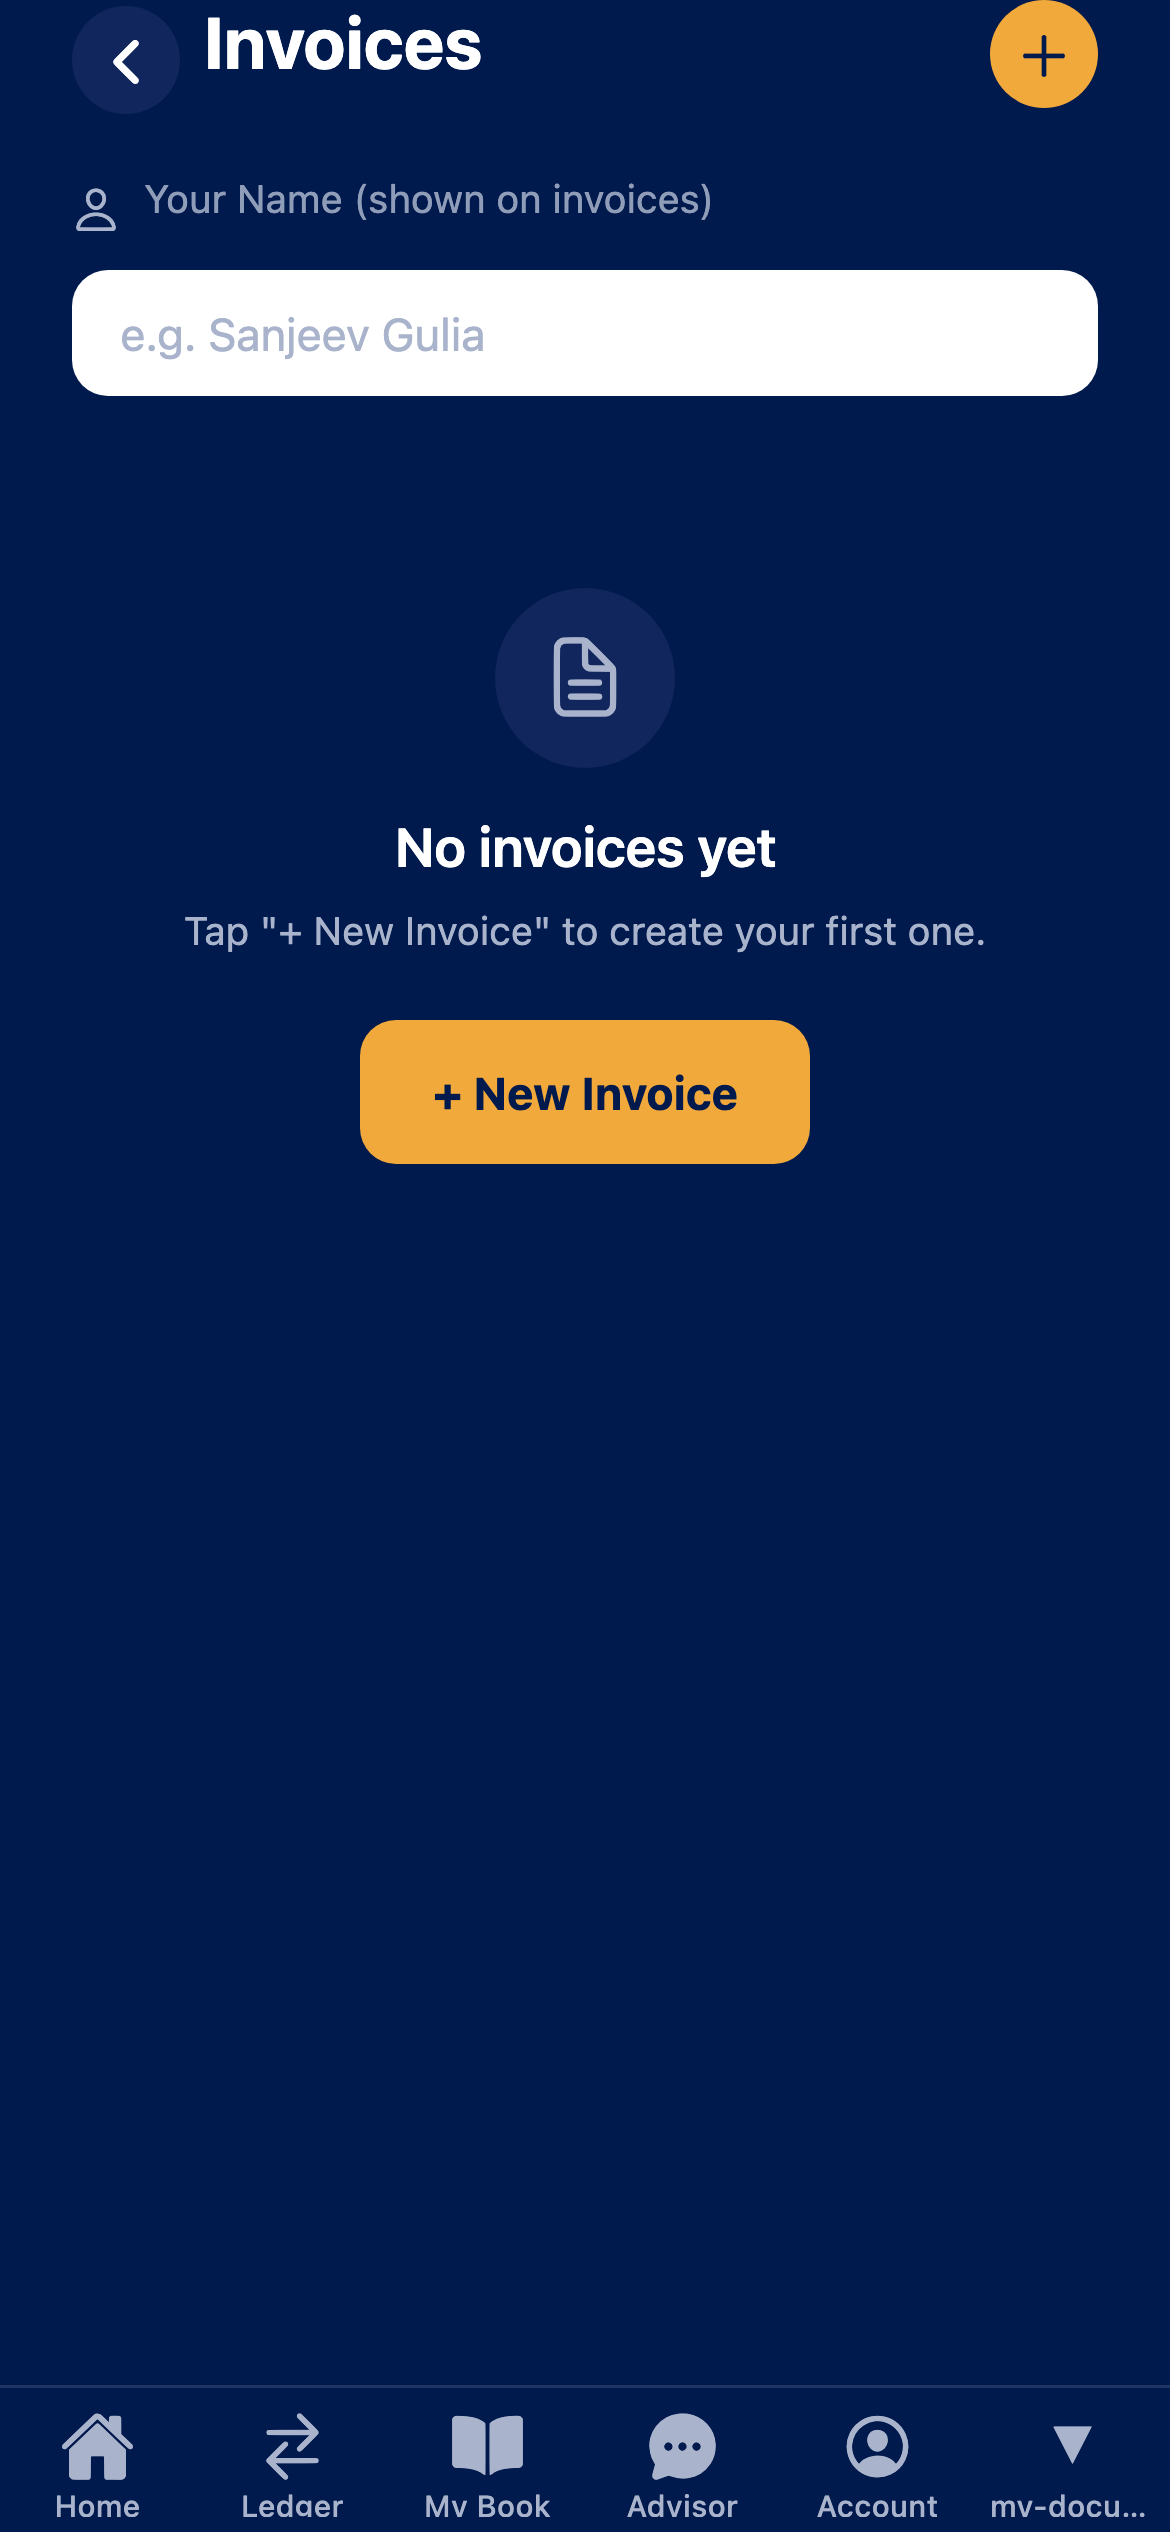
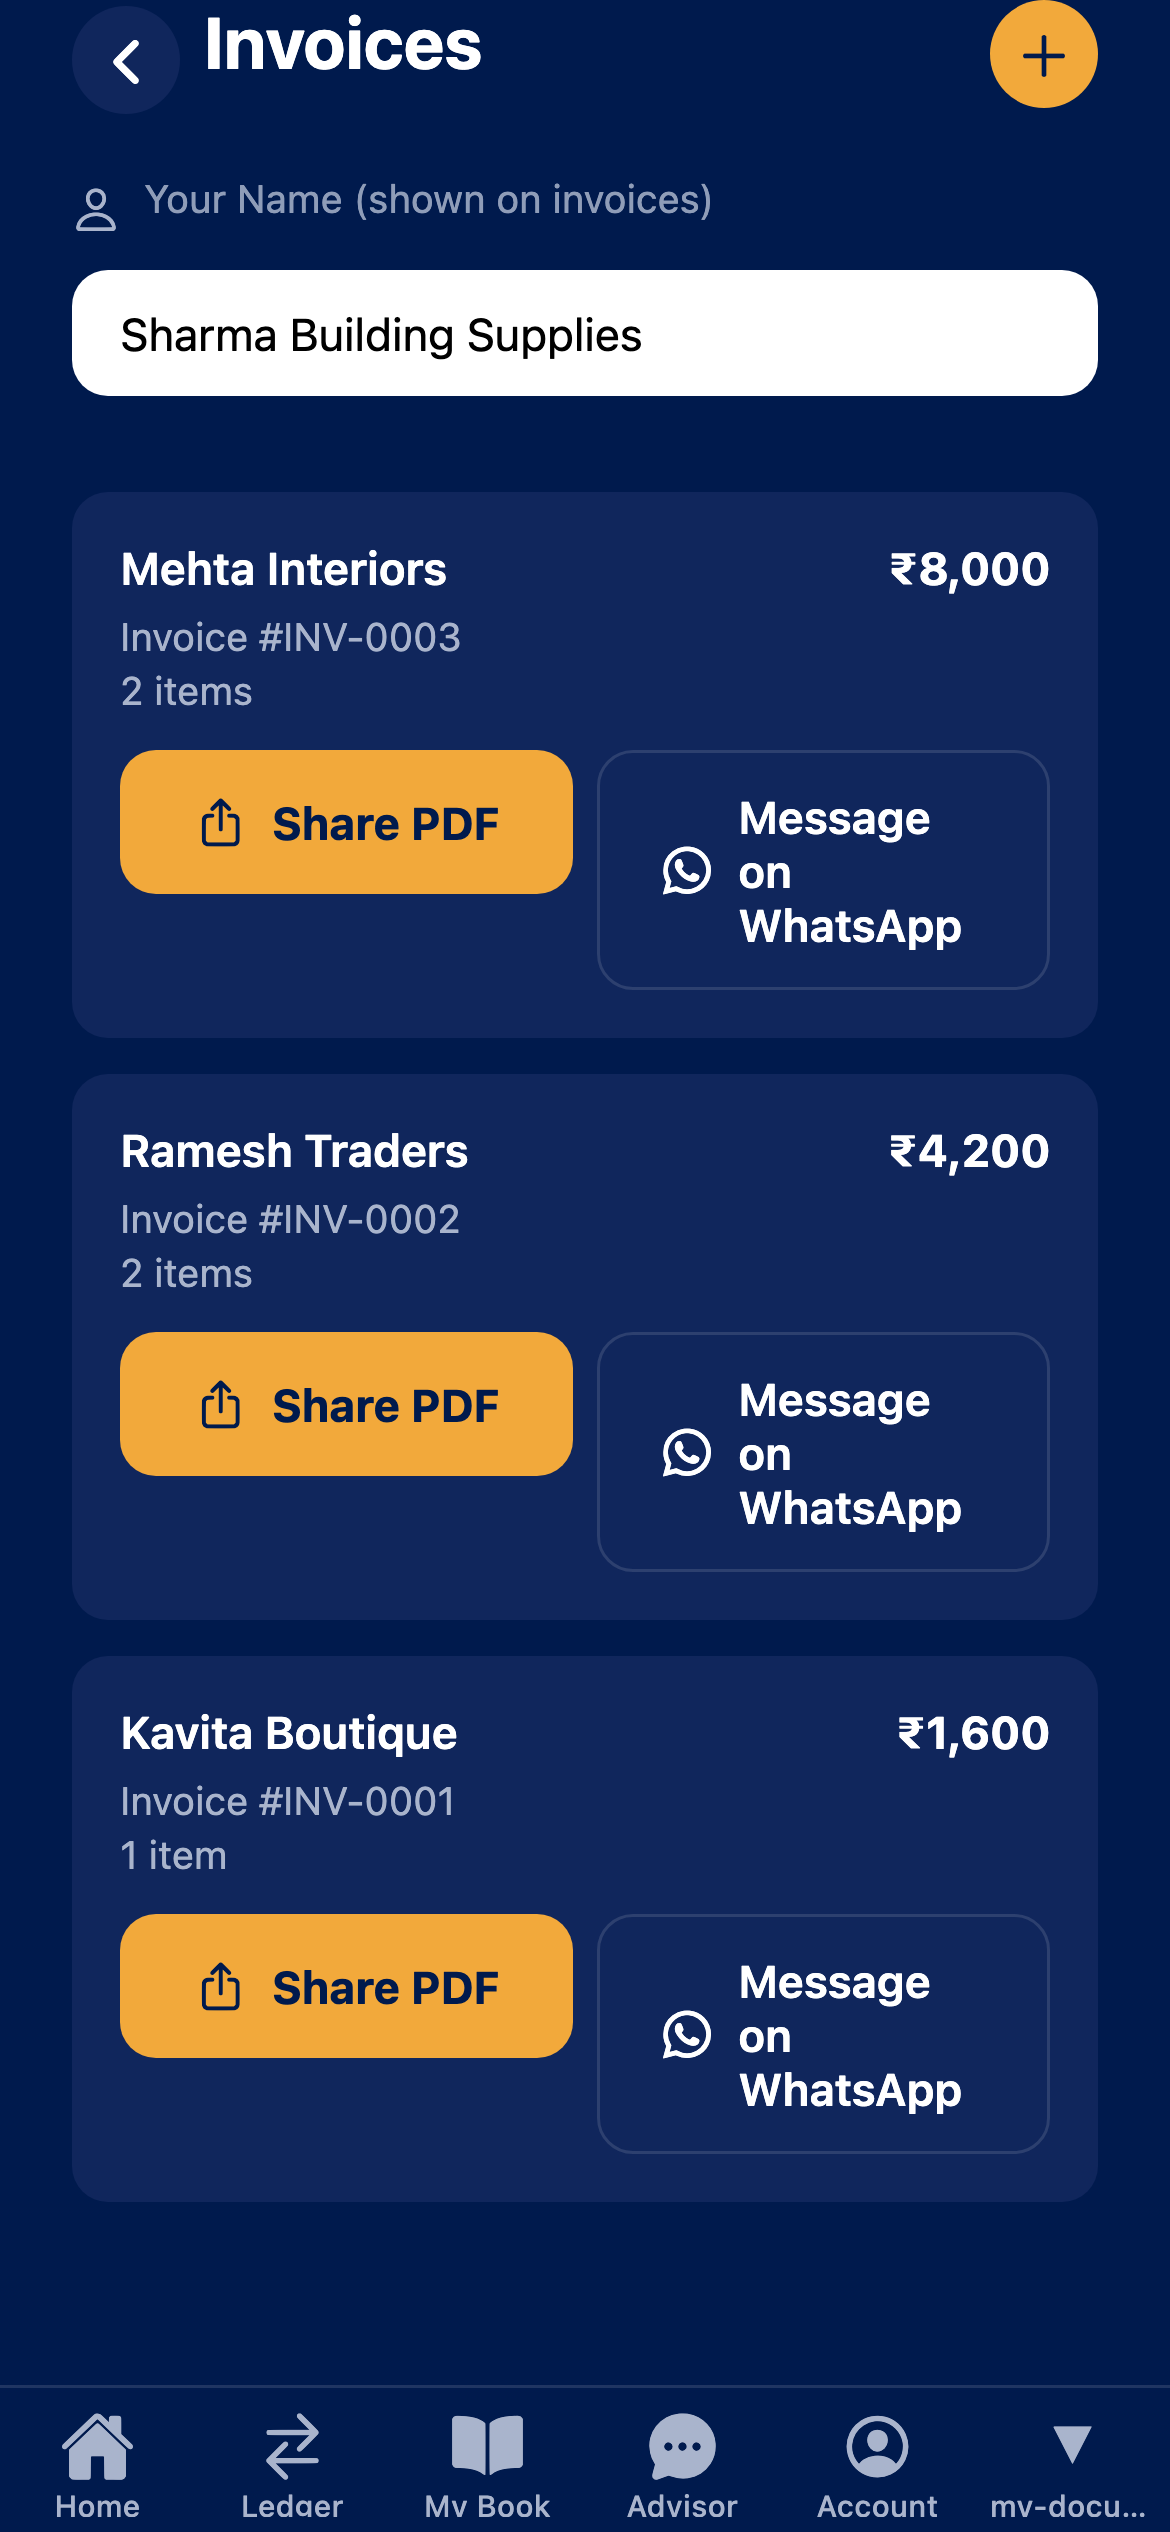
Nightly production waits for the network and never counts an outage as a failed try; three more English Reels with real screens

diff --git a/engine/daily_production.py b/engine/daily_production.py
@@ -31,6 +31,36 @@ MAX_SECONDS = 59.8
 VOICE_BUDGET = 92
 
 
+NETWORK_WORDS = ("nodename nor servname", "Temporary failure in name resolution", "Network is unreachable", "URLError", "Connection reset",
+                 "Connection refused", "ConnectionError", "timed out", "Name or service not known")
+
+
+def is_network_problem(text: str) -> bool:
+    return any(w in (text or "") for w in NETWORK_WORDS)
+
+
+def network_up(hosts=("generativelanguage.googleapis.com", "aiplatform.googleapis.com", "api.telegram.org")) -> bool:
+    import socket
+    try:
+        for h in hosts:
+            socket.getaddrinfo(h, 443)
+        return True
+    except OSError:
+        return False
+
+
+def wait_for_network(max_seconds: int = 3 * 3600, step: int = 60, up=network_up, sleep=None) -> bool:
+    """The 01:30 launch can fire while the Mac's Wi-Fi is still coming back: wait for DNS instead of failing every Reel in one second."""
+    import time
+    sleep = sleep or time.sleep
+    waited = 0
+    while not up():
+        if waited >= max_seconds:
+            return False
+        sleep(step); waited += step
+    return True
+
+
 def _log(entry: dict, log: Path = LOG) -> None:
     log.parent.mkdir(parents=True, exist_ok=True)
     with log.open("a") as f:
@@ -98,7 +128,8 @@ def build_story(story_path: Path, root: Path = ROOT, extra_env: dict = None, tim
     if "DAILY_VOICE_QUOTA" in text:
         return "quota", "voice allowance used up"
     if r.returncode != 0:
-        return "failed", (text.strip().splitlines() or ["no output"])[-1][:160]
+        last = (text.strip().splitlines() or ["no output"])[-1][:160]
+        return ("network" if is_network_problem(last) else "failed"), last
     return "made", ""
 
 
@@ -106,11 +137,17 @@ def _lines(story: dict) -> int:
     return len(story["scenes"])
 
 
-def run(root: Path = ROOT, *, dry: bool = False, budget: int = VOICE_BUDGET, build=build_story, ask=None, now: date = None, send=notify.send, log: Path = LOG) -> dict:
+def run(root: Path = ROOT, *, dry: bool = False, wait_net=lambda: wait_for_network(900), budget: int = VOICE_BUDGET, build=build_story, ask=None, now: date = None, send=notify.send, log: Path = LOG) -> dict:
     now = now or (datetime.now(timezone.utc) + timedelta(hours=1)).date()
     apps = load_apps()
     result = {"made": [], "failed": [], "stopped": "", "english": 0}
     used = 0
+
+    def build_net(*a):
+        status, msg = build(*a)
+        if status == "network" and wait_net():
+            status, msg = build(*a)
+        return status, msg
 
     def finish():
         left = len(backlog(root, _failures(log)))
@@ -125,8 +162,10 @@ def run(root: Path = ROOT, *, dry: bool = False, budget: int = VOICE_BUDGET, bui
         film_ok = now <= broll.DEADLINE and broll.spent_inr() + cost <= broll.CREDIT_INR - 300
         if dry:
             result["made"].append((s["id"], "English" + ("" if film_ok or not cost else ", free cut-out style"))); used += _lines(s); continue
-        status, msg = build(root / "stories" / (s["id"].replace("-", "_") + ".json"), root, {} if film_ok or not cost else {"REEL_STYLE": "cutout"})
+        status, msg = build_net(root / "stories" / (s["id"].replace("-", "_") + ".json"), root, {} if film_ok or not cost else {"REEL_STYLE": "cutout"})
         _log({"id": s["id"], "status": status if status != "made" else "made", "note": msg, "kind": "english"}, log)
+        if status == "network":
+            result["stopped"] = "network"; return finish()
         used += _lines(s)
         if status == "quota":
             result["stopped"] = "voice allowance"; return finish()
@@ -150,8 +189,12 @@ def run(root: Path = ROOT, *, dry: bool = False, budget: int = VOICE_BUDGET, bui
             story = localize.localize(base, tr, lang)
             sp = root / "stories" / (lid.replace("-", "_") + ".json"); sp.write_text(json.dumps(story, indent=1, ensure_ascii=False) + "\n")
         except Exception as e:
+            if is_network_problem(f"{type(e).__name__} {e}"):
+                _log({"id": lid, "status": "network", "note": f"translation: {str(e)[:150]}", "kind": "translate"}, log); result["stopped"] = "network"; break
             _log({"id": lid, "status": "failed", "note": f"translation: {str(e)[:150]}", "kind": "translate"}, log); result["failed"].append((lid, f"translation: {str(e)[:90]}")); continue
-        status, msg = build(sp, root)
+        status, msg = build_net(sp, root)
+        if status == "network":
+            _log({"id": lid, "status": "network", "note": msg, "kind": "convert", "lang": lang}, log); result["stopped"] = "network"; break
         used += _lines(base)
         if status == "made":
             secs = _seconds(root / "stories" / "out" / f"{lid}.mp4")
@@ -179,7 +222,7 @@ def summary(result: dict, credit_line: str = "") -> str:
     if result["failed"]:
         lines.append(f"Problems: {len(result['failed'])}, for example {result['failed'][0][0]}: {result['failed'][0][1]}")
     if result["stopped"]:
-        lines.append(f"Stopped for today: {result['stopped']}. It carries on tomorrow by itself.")
+        lines.append(f"Stopped for today: {result['stopped']}. It carries on " + ("at the next run, once the connection is back." if result["stopped"] == "network" else "tomorrow by itself."))
     if credit_line:
         lines.append(credit_line)
     return "\n".join(lines)
@@ -197,6 +240,8 @@ def main(argv=None) -> int:
         fcntl.flock(lock, fcntl.LOCK_EX | fcntl.LOCK_NB)
     except OSError:
         print("a production run is already going"); return 0
+    if not dry and not wait_for_network():
+        print("no network for 3 hours; nothing made today"); return 0
     result = run(dry=dry)
     text = summary(result, notify.credit_line())
     print(text)

diff --git a/store/capture_scoremybiz.py b/store/capture_scoremybiz.py
@@ -10,6 +10,23 @@ from playwright.sync_api import sync_playwright
 BASE="http://localhost:8091"; LOCAL="http://localhost:9999/.netlify/functions/"
 SESSION={"phone":"","sessionToken":"","name":"Ramesh","businessName":"Sharma General Store","businessType":"Retail / Shop","plan":"starter","founder":True,"isAdmin":False,"country":{"code":COUNTRY}}
 PLAN={"plan":"trial","businessName":"Sharma General Store","phone":"9876543210","registeredAt":"2026-10-01T00:00:00Z","planExpiresAt":None,"planLabel":None,"aiIncluded":True,"planEndsAt":None,"actor":"owner","staffName":None,"staffId":None,"shop":None,"shops":1,"country":{"code":COUNTRY,"name":COUNTRIES_TBL[COUNTRY][0],"currency":COUNTRIES_TBL[COUNTRY][1],"symbol":COUNTRIES_TBL[COUNTRY][2]},"hasAccess":True,"trialDays":30,"trialDaysLeft":21}
+SAMPLE_INVOICES = {"invoices": [
+    {"id": "i3", "invoiceNumber": "INV-0003", "customerName": "Mehta Interiors", "customerPhone": None, "totalAmount": 8000, "subtotal": 8000, "gstRate": 0, "gstAmount": 0,
+     "lineItems": [{"description": "Paint 20L", "quantity": 2, "unitPrice": 2400}, {"description": "Cement bags", "quantity": 8, "unitPrice": 400}], "createdAt": "2026-10-12T10:00:00Z", "pdfUrl": None},
+    {"id": "i2", "invoiceNumber": "INV-0002", "customerName": "Ramesh Traders", "customerPhone": None, "totalAmount": 4200, "subtotal": 4200, "gstRate": 0, "gstAmount": 0,
+     "lineItems": [{"description": "Sand (trolley)", "quantity": 1, "unitPrice": 3000}, {"description": "Cement bags", "quantity": 3, "unitPrice": 400}], "createdAt": "2026-10-04T10:00:00Z", "pdfUrl": None},
+    {"id": "i1", "invoiceNumber": "INV-0001", "customerName": "Kavita Boutique", "customerPhone": None, "totalAmount": 1600, "subtotal": 1600, "gstRate": 0, "gstAmount": 0,
+     "lineItems": [{"description": "Cement bags", "quantity": 4, "unitPrice": 400}], "createdAt": "2026-10-01T10:00:00Z", "pdfUrl": None}]}
+SAMPLE_TICKETS = {"tickets": [
+    {"id": "t2", "ticketNo": "SMB-2026-000002", "category": "score", "status": "open", "message": "I added many entries but my score looks the same.", "reply": None, "createdAt": "2026-10-14T09:00:00Z", "updatedAt": "2026-10-14T09:00:00Z"},
+    {"id": "t1", "ticketNo": "SMB-2026-000001", "category": "entries", "status": "answered", "message": "A sale I wrote yesterday is missing from My Book.", "reply": "Thank you for telling us. We found it and put it back. Please check your book and write again if it is still missing.", "createdAt": "2026-10-13T09:00:00Z", "updatedAt": "2026-10-13T15:00:00Z"}]}
+CONTACT_HISTORY = {"transactions": [
+    {"id": "h4", "type": "payment_in", "amount": 5000, "entryDate": "2026-10-11", "paymentStatus": "paid", "note": "Part payment"},
+    {"id": "h3", "type": "sale", "amount": 8000, "entryDate": "2026-10-09", "paymentStatus": "credit", "note": ""},
+    {"id": "h2", "type": "sale", "amount": 4000, "entryDate": "2026-10-05", "paymentStatus": "paid", "note": ""},
+    {"id": "h1", "type": "sale", "amount": 3000, "entryDate": "2026-10-02", "paymentStatus": "credit", "note": ""}],
+    "statement": {"balance": 6000, "direction": "they_owe_you", "label": "Mehta Interiors owes you"}}
+MOCKS = {"get-invoices": SAMPLE_INVOICES, "get-my-tickets": SAMPLE_TICKETS}
 ROUTES=["dashboard","book","result","cash-reality","profit-loss","score-history","advisor","tasks"]
 # the other verified, demo-able features (content/features.json): python3 capture_scoremybiz.py <lang> <outdir> more
 MORE=["business-card","daily-update","cash-flow","payables","invoices","quotations","items","money-now","cash-book","registers","balance-sheet","year-end",
@@ -25,6 +42,10 @@ CLEAN_JS = r"""() => {   // remove the dev-build warning bubble and any "Founder
 }"""
 def handle(route, req):
     fn=req.url.split("/functions/")[1].split("?")[0]
+    if fn == "get-transactions" and b'"contactId"' in (req.post_data_buffer or b""):
+        return route.fulfill(status=200, content_type="application/json", headers={"Access-Control-Allow-Origin":"*"}, body=json.dumps(CONTACT_HISTORY))
+    if fn in MOCKS:
+        return route.fulfill(status=200, content_type="application/json", headers={"Access-Control-Allow-Origin":"*"}, body=json.dumps(MOCKS[fn]))
     if fn=="check-plan":
         return route.fulfill(status=200, content_type="application/json", headers={"Access-Control-Allow-Origin":"*"}, body=json.dumps(PLAN))
     try:
@@ -38,7 +59,7 @@ seen={}
 with sync_playwright() as p:
     b=p.chromium.launch()
     ctx=b.new_context(viewport={"width":390,"height":844}, device_scale_factor=3, is_mobile=True, has_touch=True, locale="en-IN", timezone_id="Asia/Kolkata", geolocation={"latitude":28.61,"longitude":77.2}, permissions=["geolocation"])
-    ctx.add_init_script("try{localStorage.setItem('smb_session', %s); localStorage.setItem('smb_country','%s'); localStorage.setItem('smb_country_ip','%s'); localStorage.setItem('smb_lang','%s');}catch(e){}" % (json.dumps(json.dumps(SESSION)), COUNTRY, COUNTRY, LANG))
+    ctx.add_init_script("try{localStorage.setItem('smb_session', %s); localStorage.setItem('smb_country','%s'); localStorage.setItem('smb_country_ip','%s'); localStorage.setItem('smb_lang','%s'); localStorage.setItem('smb_user_name','Sharma Building Supplies');}catch(e){}" % (json.dumps(json.dumps(SESSION)), COUNTRY, COUNTRY, LANG))
     ctx.route("https://scoremybiz.com/.netlify/functions/**", lambda route, req: (seen.setdefault(req.url.split('/functions/')[1],0), handle(route, req)))
     pg=ctx.new_page()
     for r in ROUTES:

diff --git a/tests/test_daily_production.py b/tests/test_daily_production.py
@@ -53,3 +53,28 @@ def test_the_summary_says_what_was_made_what_is_left_and_why_it_stopped():
     r = {"made": [("a-hi", ""), ("b-hi", ""), ("c-ta", "")], "failed": [("d-ta", "render ran over 25 minutes")], "stopped": "voice budget", "pending_english": 0, "left": 120, "english": 0}
     t = dp.summary(r, "Veo credit: x")
     assert "3 Reels made (Hindi 2, Tamil 1)" in t and "Conversions still to do: 120 (about 10 days)" in t and "d-ta: render ran over 25 minutes" in t and "carries on tomorrow" in t and t.endswith("Veo credit: x")
+
+
+def test_a_network_outage_stops_the_run_and_is_not_counted_as_a_failed_try(monkeypatch, tmp_path):
+    setup(monkeypatch, tmp_path, [story("a-en"), story("b-en")], [])
+    built = []
+    def build(path, root, env=None):
+        built.append(path.name); return ("network", "URLError: nodename nor servname provided")
+    r = dp.run(tmp_path, build=build, wait_net=lambda: False, now=NOW, log=tmp_path / "log")
+    assert built == ["a_en.json"] and r["stopped"] == "network" and r["failed"] == []                # stops at the first, does not burn the others
+    assert dp._failures(tmp_path / "log") == {}                                                      # and no try is spent
+
+
+def test_the_build_is_tried_again_once_the_network_is_back(monkeypatch, tmp_path):
+    setup(monkeypatch, tmp_path, [story("a-en")], [])
+    answers = iter([("network", "URLError"), ("made", "")])
+    r = dp.run(tmp_path, build=lambda *a, **k: next(answers), wait_net=lambda: True, now=NOW, log=tmp_path / "log")
+    assert [m[0] for m in r["made"]] == ["a-en"] and r["stopped"] == ""
+
+
+def test_network_errors_are_recognised_and_the_wait_gives_up_after_its_limit():
+    assert dp.is_network_problem("urllib.error.URLError: <urlopen error [Errno 8] nodename nor servname provided, or not known>")
+    assert not dp.is_network_problem("ValueError: scene 3 has no picture")
+    slept = []
+    assert dp.wait_for_network(max_seconds=120, step=60, up=lambda: False, sleep=slept.append) is False and slept == [60, 60]
+    assert dp.wait_for_network(max_seconds=120, step=60, up=lambda: True, sleep=slept.append) is True
